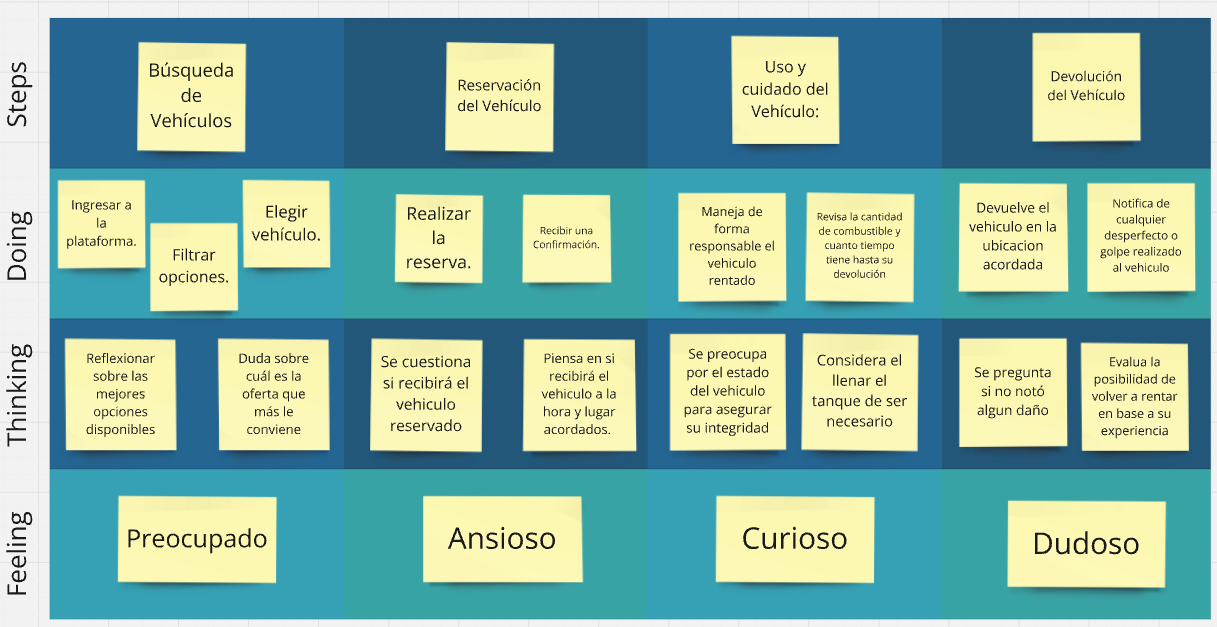
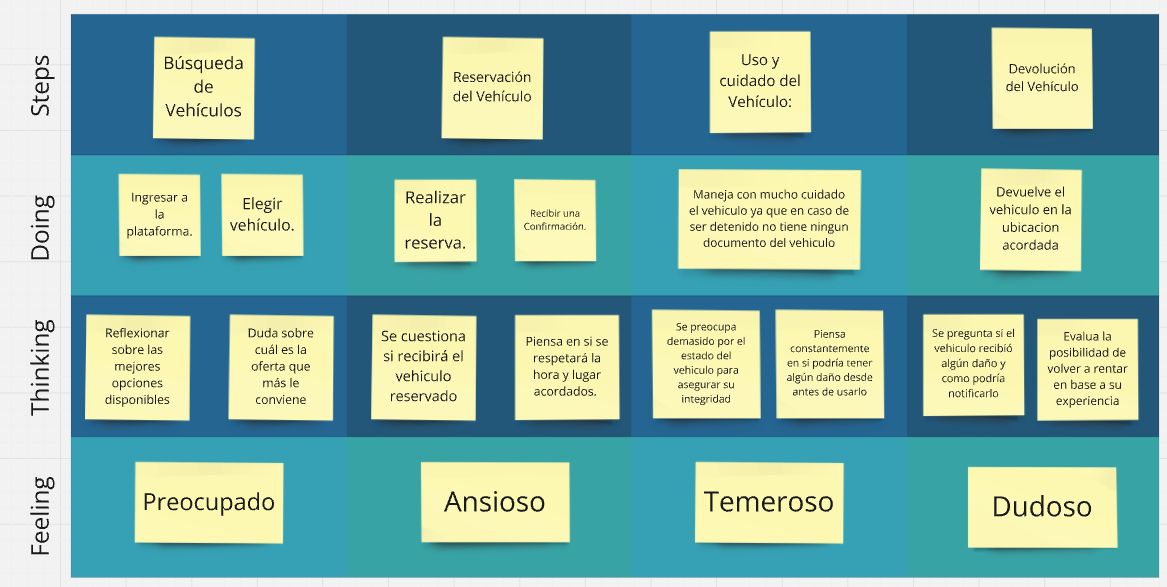
docs: As-Is and To-Be scenarios updated

diff --git a/README.md b/README.md
@@ -813,6 +813,16 @@ En este documento, presentamos dos User Journey Maps que ilustran las experienci
 
 ## **2.4. Requirements Specification**
 
+### **2.4.1 To-Be Scenario Mapping**
+
+**Segmento objetivo personas interesadas en alquilar:**
+
+![As-is NORMAL.png](images/To-Be_Arrendatarios.png)
+
+**Segmento objetivo de empresarios de alquiler de vehículos:**
+
+![As-is ARRENDADOR.png](images/To-Be_Empresario.png)
+
 ### 2.4.2 User Stories
 |         | Nombre                                                 |                                                                                                                                                                |
 | ------- | ------------------------------------------------------ | --------------------------------------------------------------------------------------------------------------------------------------------------------------------------- |
